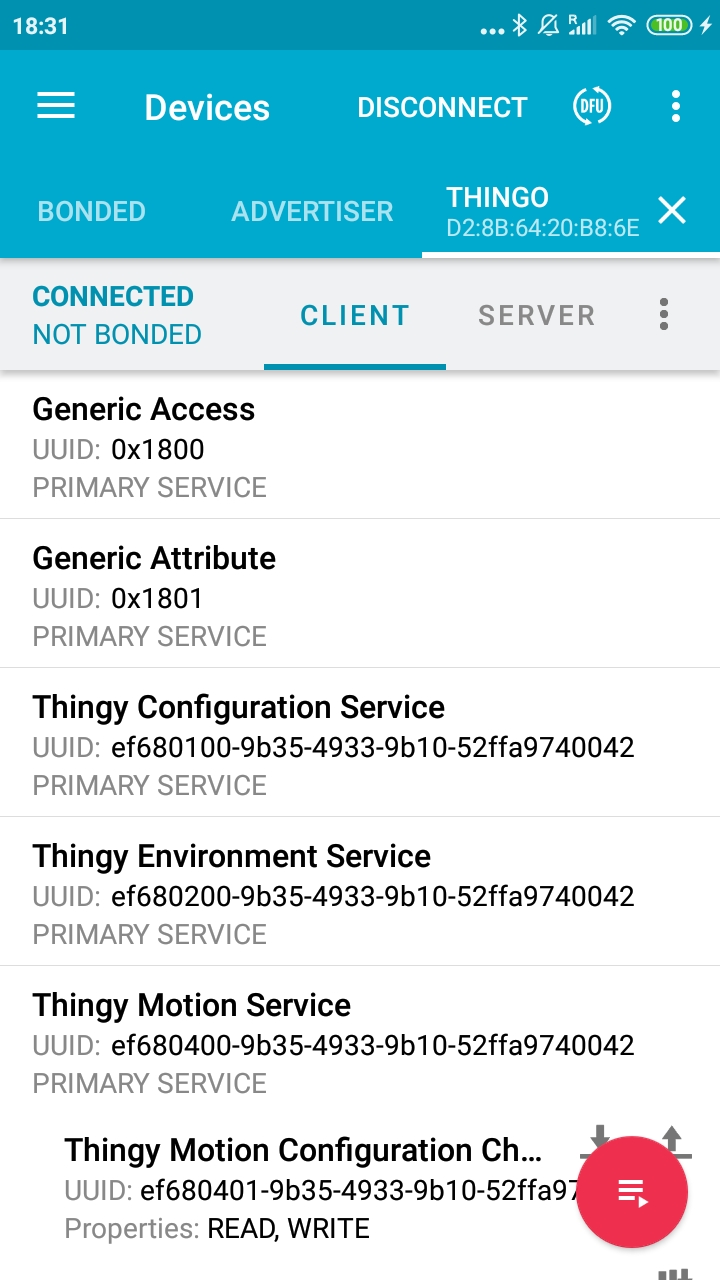
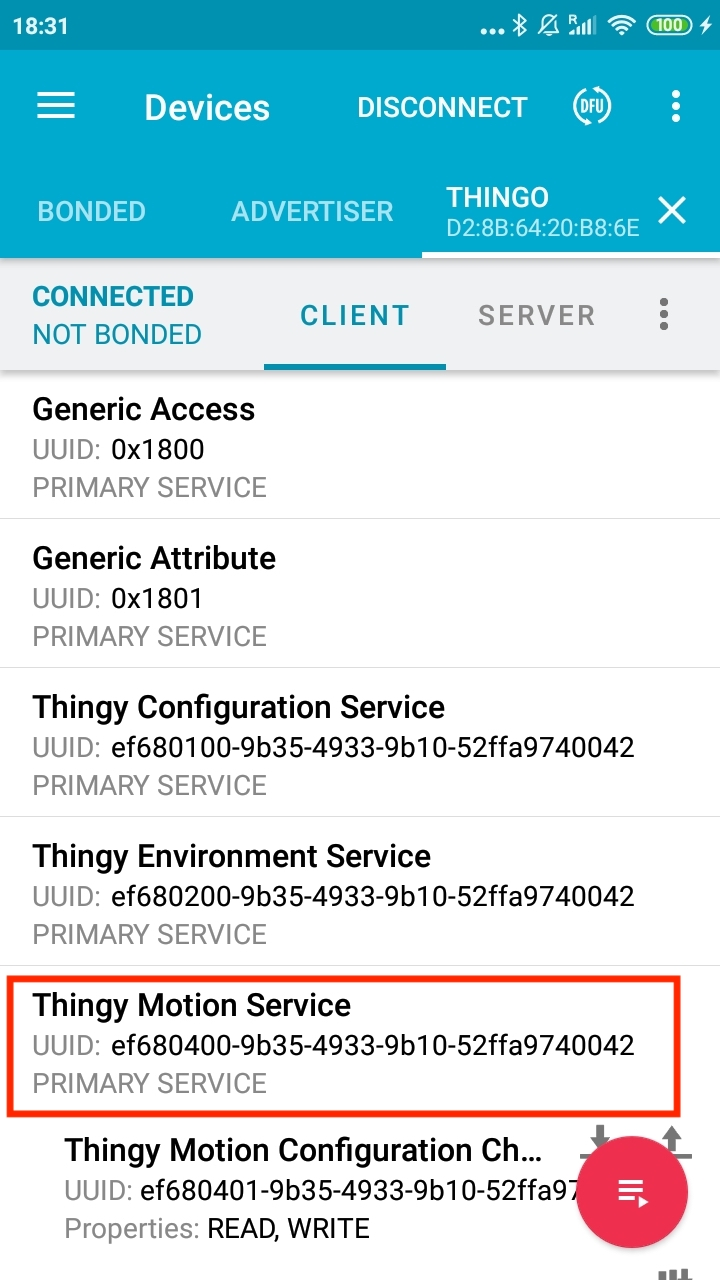
modified pictures

Changed region(s): [[0.0, 0.75, 0.9472, 0.875]]

diff --git a/Labs/Week 4 Lab.md b/Labs/Week 4 Lab.md
@@ -215,4 +215,16 @@ make flash_softdevice
 make flash
 ```
 
-Now start your debug windows and connect to the cube through the nRF Connect app. 
+Now start your debug windows and connect to the cube through the nRF Connect app. You should see a screen enumerating the services offered by the cube:
+
+![Image of services](https://github.com/specknet/pdiot-practical/blob/master/Images/nrf_connect_1.jpg)
+
+Expand the `Thingy Motion Service` and find the `Thingy Raw Data Characteristic`.
+
+![Image of characteristics](https://github.com/specknet/pdiot-practical/blob/master/Images/nrf_connect_2.jpg)
+
+Click on the three arrows next to the name to subscribe to that characteristic:
+
+![Image of subscription](https://github.com/specknet/pdiot-practical/blob/master/Images/nrf_connect_3.jpg)
+
+You should now start to see the accelerometer values being printed into the output window on your screen. 
